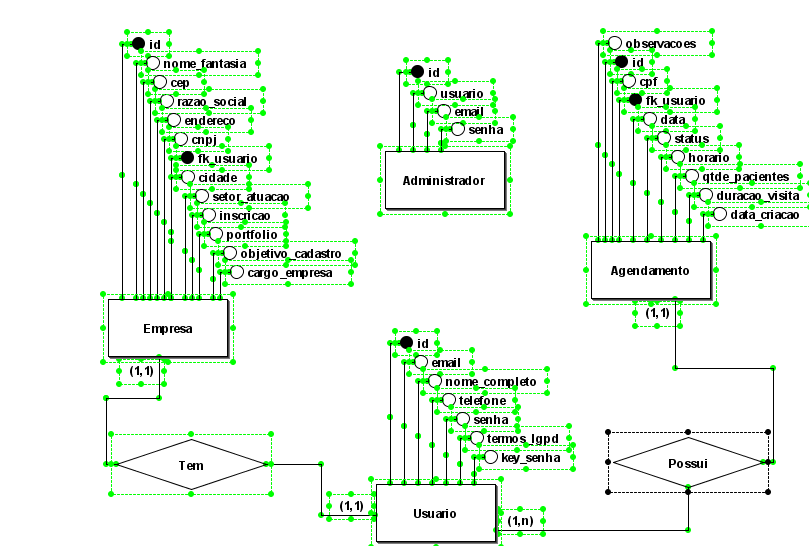
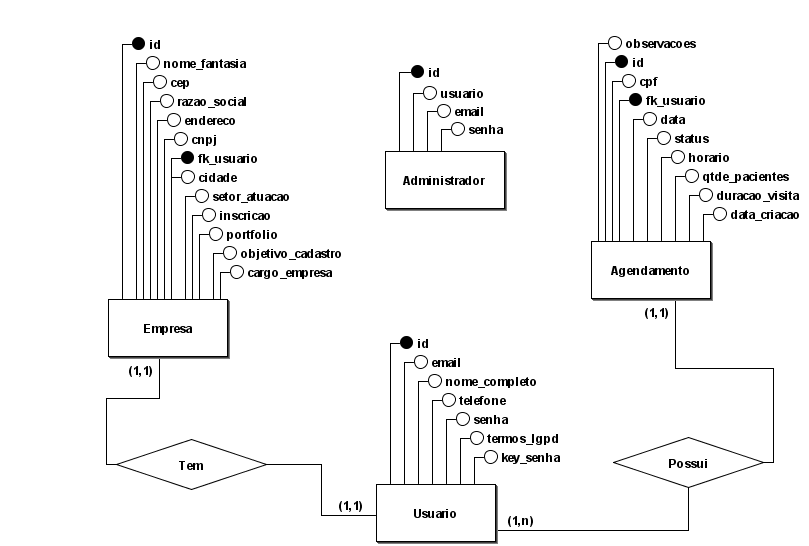
Arrumando a imagem do MER/DER

diff --git a/README.md b/README.md
@@ -20,7 +20,7 @@ Abaixo, você pode visualizar o Diagrama Entidade-Relacionamento (DER), que repr
 
 ### Diagrama
 
-![Diagrama Entidade-Relacionamento (MER/DER) do Banco de Dados VerSonhos](https://raw.githubusercontent.com/VerSonhos/VerSonhos_database/main/MerDerVerSonhos.png)
+![Diagrama Entidade-Relacionamento (MER/DER) do Banco de Dados VerSonhos](MerDerVerSonhos.png)
 
 ***Nota:** A imagem acima corresponde ao arquivo `MerDerVerSonhos.png` disponível na raiz do repositório.*
 
